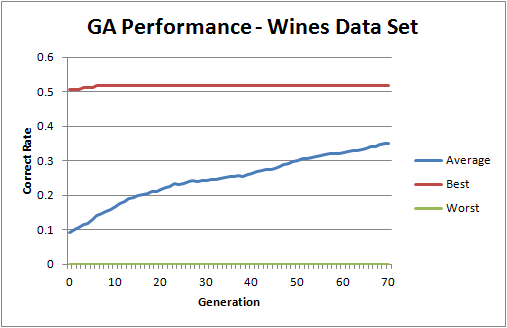
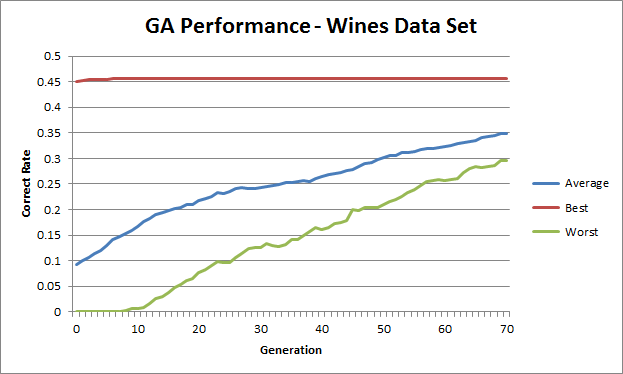
Finally Done.

Changed region(s): [[0.0, 0.0, 1.0, 1.0]]

diff --git a/src/data_parse.js b/src/data_parse.js
@@ -42,10 +42,8 @@ file_list.forEach(function (file, file_index) {
 				temp_row = gens[line_index-SKIP_AMOUNT];
 			}
 			temp_row.average  += parseFloat(values[2]);
-			if (parseFloat(values[1]) > temp_row.best)
-				temp_row.best  = parseFloat(values[1]);
-			if (parseFloat(values[3]) < temp_row.worst)
-				temp_row.worst = parseFloat(values[3]);
+			temp_row.best  += parseFloat(values[1]);
+			temp_row.worst += parseFloat(values[3]);
 		});
 		output();
 	});
@@ -61,6 +59,8 @@ function output () {
 		console.log("Generation, Average, Best, Worst");
 		gens.forEach(function (gen, index) {
 			gen.average /= file_list.length;
+			gen.best /= file_list.length;
+			gen.worst /= file_list.length;
 			console.log(index +s+ gen.average +s+ gen.best +s+ gen.worst);
 		});
 };

diff --git a/report/report.tex b/report/report.tex
@@ -416,8 +416,6 @@ than the number of backprop runs in total. Leading to a large random search perf
 is not surprising. One could even argue that backprop could perform as good or better if given as many randomized
 individuals as the GA was given.
 
-The tournament selection for 
-
 End of Transmission.
 
 % references section
